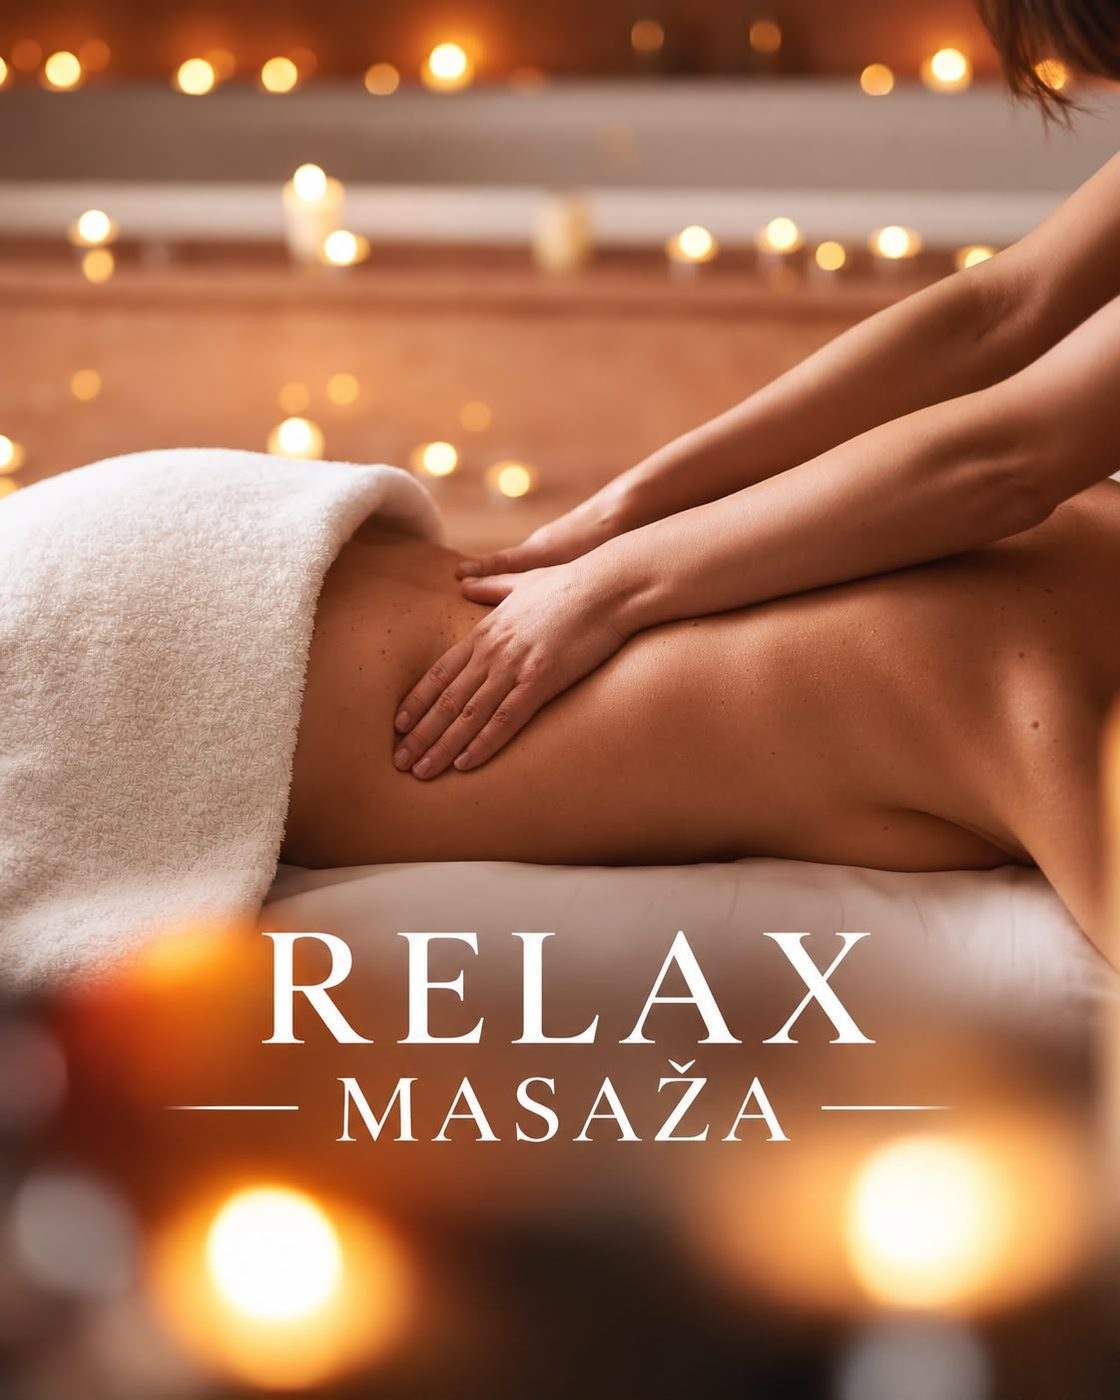
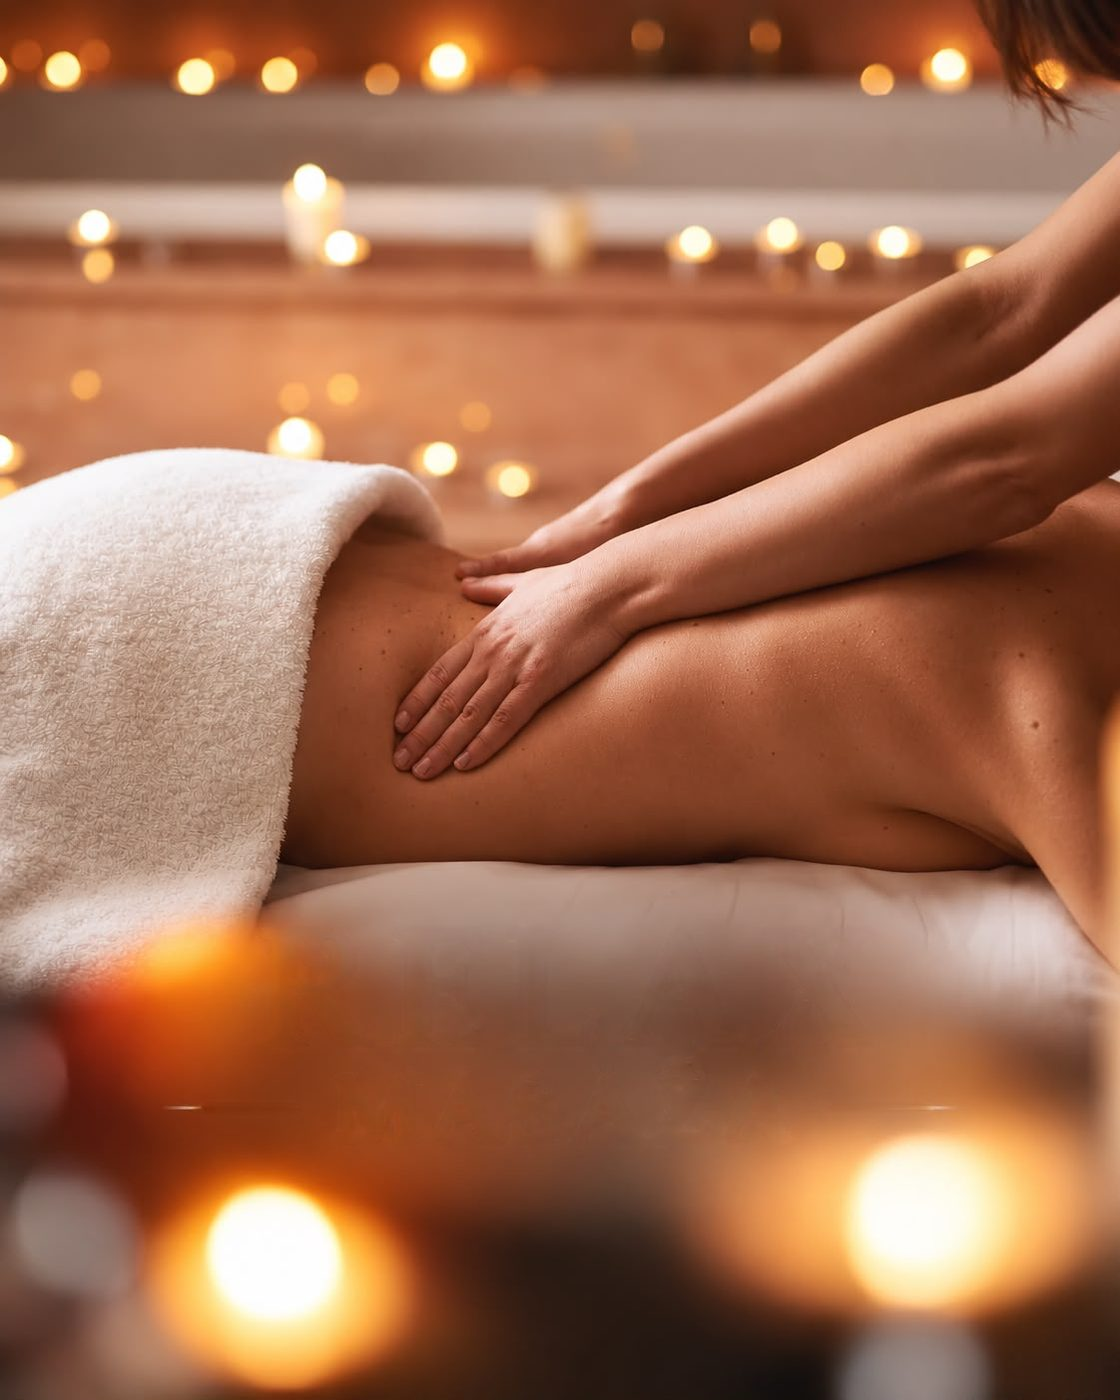
Slike tretmana bez natpisa + 8 novih fotografija
- Sa 13 plakata skinuti natpisi (Botox prah, Higijenski tretman, La Bomba,
  Dermapen, Hydrafacial 14u1 i Oxy, Vakum sonda, Lipomodelovanje, Relax
  masaža, Vacuslim 48, Inarie, Neinvazivna lipoliza, Sportska masaža);
  kod kolaža se koristi čist deo fotografije. Logo salona ostaje.
- Nove fotografije: Vacuslim 48, Neinvazivna lipoliza, Sportska masaža,
  Limfna drenaža, Limfna drenaža za trudnice, Termo ćebe, a Inarie i
  Lipolaseri se same prikazuju kad se takav tretman doda u cenovnik.
- Očišćeni plakati na kartici popunjavaju ceo okvir (bez zamućenih ivica).

Claude-Session: https://claude.ai/code/session_016rbvAuM4D1uDY2CXrVdw2E

diff --git a/public/index.html b/public/index.html
@@ -842,10 +842,18 @@ const SVC_IMGS=[
   [/radio ?talas/,"radiotalasni-lifting"],
   [/konsultacij/,"besplatna-konsultacija"],
   [/brazilsk/,"brazilsko-podizanje-zadnjice"],
+  [/va[ck]u ?slim/,"vacuslim-48"],                  // pre limfne drenaže: „Vacuslim 48 sa limfnom drenažom"
+  [/trudnic/,"limfna-drenaza-za-trudnice"],
+  [/limfn\w* drenaz/,"limfna-drenaza"],
   [/vakum/,"vakum-sonda"],
   [/maderoterapij/,"maderoterapija-premium-mix"],
   [/lipomodelovanj/,"lipomodelovanje-tela"],
+  [/neinvaziv.*lipoliz/,"neinvazivna-lipoliza"],
   [/^(?!.*neinvaziv).*lipoliz/,"lipoliza"],          // slika sa iglom ne ide uz neinvazivnu lipolizu
+  [/lipolaser/,"lipolaseri"],
+  [/termo/,"termo-cebe"],
+  [/inarie|fitnes masaz/,"inarie"],
+  [/sportsk/,"sportska-masaza"],
   [/^(?!.*(lica|podbrat)).*endosfer/,"endosfera"],  // slika je tretman tela, ne ide uz endosferu lica i podbratka
   [/ice body/,"ice-body-sculpting"],
   [/rolosfer/,"rolosfera"],
